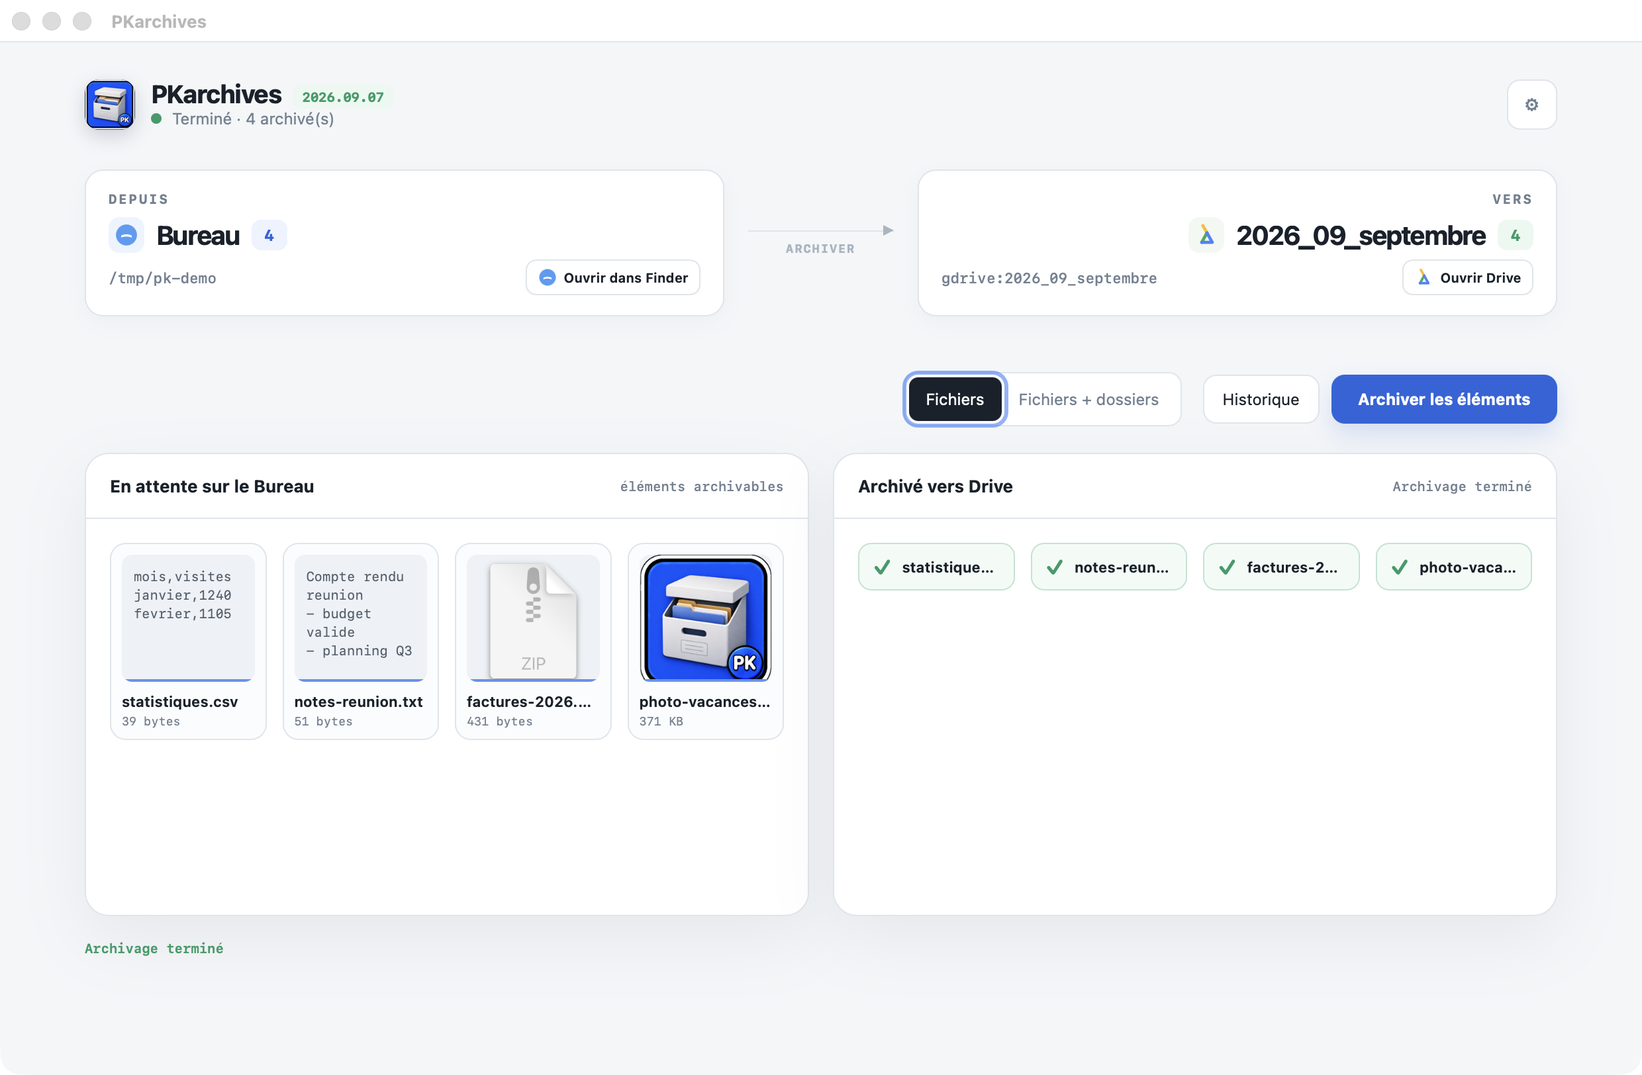
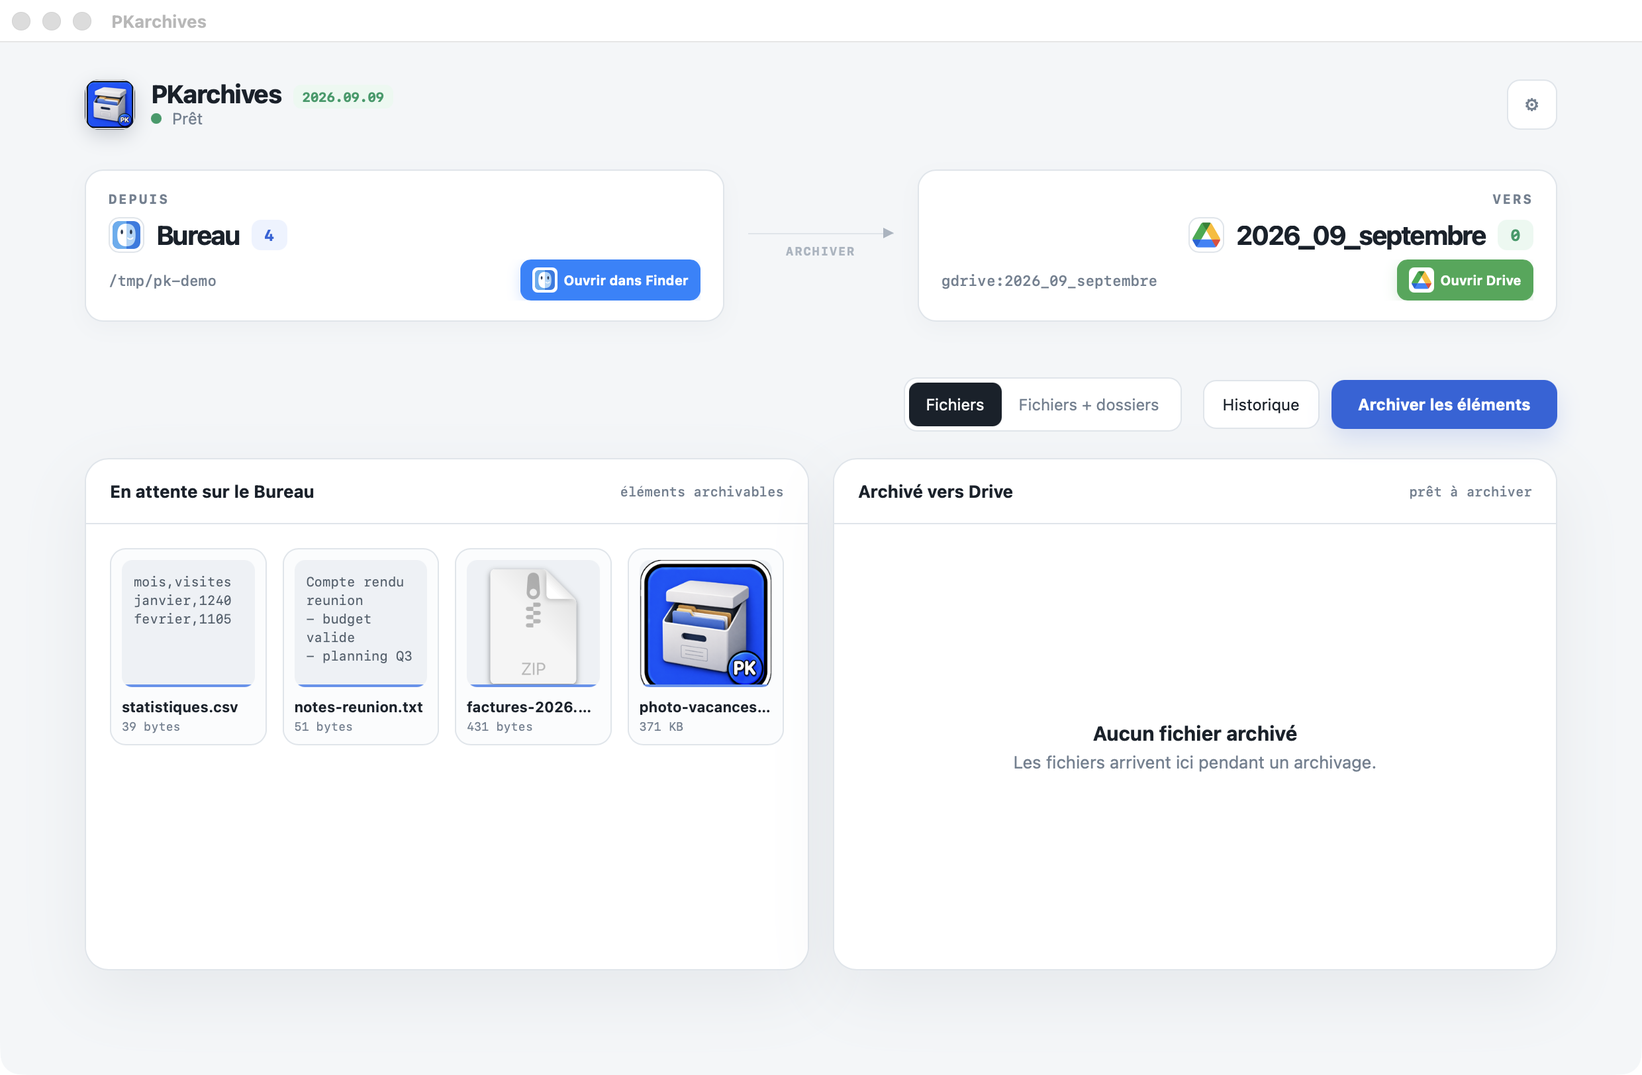
MAJ: vraies icones finder et drive, cta en couleur, reglages reorganises

diff --git a/src/macos/v2/web/index.html b/src/macos/v2/web/index.html
@@ -11,14 +11,14 @@
 .destination{display:flex;align-items:center;gap:8px;padding:9px 13px;border:1px solid var(--line);background:#fff;border-radius:10px;color:var(--muted);font:600 11px ui-monospace,SFMono-Regular,Menlo,monospace}.destination strong{color:var(--ink);font-weight:650}.gear{border:1px solid var(--line);background:#fff;border-radius:10px;width:38px;height:38px;color:var(--muted)}
 .route{display:grid;grid-template-columns:minmax(0,1fr) 110px minmax(0,1fr);align-items:center;gap:18px;margin-bottom:24px}.side{min-width:0}.eyebrow{font:700 10px ui-monospace,SFMono-Regular,Menlo,monospace;text-transform:uppercase;letter-spacing:1.5px;color:var(--muted);margin-bottom:8px}.location{display:flex;align-items:center;gap:9px}.location h2{font-size:22px;letter-spacing:-.7px;margin:0}.path{color:var(--muted);font:500 11px ui-monospace,SFMono-Regular,Menlo,monospace;overflow:hidden;text-overflow:ellipsis;white-space:nowrap;margin-top:5px}.badge{display:inline-flex;align-items:center;justify-content:center;min-width:27px;height:23px;padding:0 8px;border-radius:7px;background:var(--blue-soft);color:var(--blue);font:700 12px ui-monospace,SFMono-Regular,Menlo,monospace}.side.right{text-align:right}.side.right .location{justify-content:flex-end}.side.right .badge{background:#eaf8f1;color:var(--green)}.arrow{text-align:center;color:#a9b4c0}.arrow .line{height:1px;background:var(--line);position:relative}.arrow .line:after{content:"";position:absolute;right:0;top:-4px;border-left:8px solid #a9b4c0;border-top:4px solid transparent;border-bottom:4px solid transparent}
 .workspace{display:grid;grid-template-columns:minmax(0,1fr) minmax(0,1fr);gap:18px}.panel{background:var(--panel);border:1px solid var(--line);border-radius:18px;box-shadow:var(--shadow);min-height:410px;overflow:hidden}.panel-head{display:flex;align-items:center;justify-content:space-between;padding:16px 18px;border-bottom:1px solid var(--line)}.panel-head strong{font-size:13px}.panel-head span{color:var(--muted);font:500 10px ui-monospace,SFMono-Regular,Menlo,monospace}.stack{padding:18px;display:grid;grid-template-columns:repeat(auto-fill,minmax(118px,1fr));gap:12px;align-content:start}.empty{grid-column:1/-1;display:grid;place-items:center;min-height:300px;color:var(--muted);text-align:center;font-size:13px}.empty strong{display:block;color:var(--ink);font-size:15px;margin-bottom:5px}.file{position:relative;min-height:146px;border:1px solid var(--line);border-radius:12px;background:#fbfcfd;padding:8px;transition:transform .25s,opacity .25s,box-shadow .25s}.file:hover{transform:translateY(-3px);box-shadow:0 10px 22px #25364a16}.file.uploading{border-color:#7ea2ed;box-shadow:0 0 0 3px #2864dc18;animation:active .9s infinite alternate}.file.done{border-color:#8bd4b3;background:#f3fbf7}.file.failed{border-color:#e4a0a5;background:#fff7f7}@keyframes active{to{transform:translateY(-3px)}}.thumb{position:relative;height:96px;border-radius:8px;background:#edf1f5;overflow:hidden;display:grid;place-items:center;color:#7b8795;font-size:29px}.thumb img{width:100%;height:100%;object-fit:cover}.thumb .fill{position:absolute;left:0;right:0;bottom:0;height:0;background:linear-gradient(180deg,#4a83ec30,#2864dc70);border-top:2px solid #5b93f0;box-shadow:0 -6px 14px #2864dc33 inset;transition:height .3s ease;pointer-events:none}.thumb.text{display:block;padding:9px;font:10px/1.45 ui-monospace,SFMono-Regular,Menlo,monospace;white-space:pre-wrap;overflow:hidden;color:#52606d}.file-name{font-size:11px;font-weight:650;overflow:hidden;text-overflow:ellipsis;white-space:nowrap;margin-top:8px}.file-meta{display:flex;justify-content:space-between;gap:4px;color:var(--muted);font:9px ui-monospace,SFMono-Regular,Menlo,monospace;margin-top:3px}.check{position:absolute;right:7px;top:7px;width:20px;height:20px;border-radius:50%;background:var(--green);color:#fff;display:none;place-items:center;font-size:12px}.file.done .check{display:grid}.drive-chip{display:flex;align-items:center;gap:8px;padding:8px 10px;border:1px solid #bfe3d2;background:#f3fbf7;border-radius:10px;animation:arrive .35s ease}.drive-chip .ok{color:var(--green);font-weight:700}.drive-chip .n{flex:1;min-width:0;font-size:11px;font-weight:650;overflow:hidden;text-overflow:ellipsis;white-space:nowrap}@keyframes arrive{from{opacity:0;transform:translateX(-14px)}}.flying{position:absolute;width:95px;pointer-events:none;z-index:5;transition:transform .65s cubic-bezier(.2,.75,.25,1),opacity .3s}.flying .file{box-shadow:0 14px 30px #2864dc38;border-color:#7ea2ed}.flying.to-drive{transform:translateX(310px) translateY(-25px) rotate(5deg);opacity:.12}
-.bottom{display:flex;align-items:center;justify-content:space-between;gap:16px;margin-top:22px}.modes{display:flex;border:1px solid var(--line);background:#fff;border-radius:10px;padding:3px}.modes button{border:0;background:transparent;color:var(--muted);border-radius:7px;padding:9px 13px;font-size:12px}.modes button.on{background:var(--ink);color:#fff}.actions{display:flex;align-items:center;gap:9px}.secondary{border:1px solid var(--line);background:#fff;color:var(--ink);border-radius:10px;padding:10px 14px;font-size:12px}.primary{border:0;background:var(--blue);color:#fff;border-radius:10px;padding:11px 20px;font-weight:700;font-size:12px;box-shadow:0 8px 18px #2864dc2b}.primary:disabled{opacity:.45;cursor:default}.cancel{border:1px solid #edc0c4;background:#fff5f6;color:var(--red);border-radius:10px;padding:10px 14px;font-size:12px;display:none}.log{margin-top:18px;color:var(--muted);font:10px ui-monospace,SFMono-Regular,Menlo,monospace;min-height:18px}.log b{color:var(--green);font-weight:600}.drawer{position:fixed;inset:0;background:#18212b55;display:none;align-items:flex-start;justify-content:flex-end;z-index:20}.drawer.open{display:flex}.drawer-card{width:360px;height:100%;background:#fff;padding:26px;box-shadow:-14px 0 40px #18212b25}.drawer-card h2{margin:0 0 5px;font-size:18px}.drawer-card p{margin:0 0 24px;color:var(--muted);font-size:11px}.drawer-card label{display:block;font-size:11px;font-weight:700;margin:15px 0 6px}.drawer-card input{width:100%;border:1px solid var(--line);border-radius:8px;padding:9px;color:var(--ink);font:11px ui-monospace,SFMono-Regular,Menlo,monospace}.drawer-actions{display:flex;gap:8px;margin-top:24px}.close{border:1px solid var(--line);background:#fff;border-radius:8px;padding:9px 12px}.save{border:0;background:var(--blue);color:#fff;border-radius:8px;padding:9px 14px;font-weight:700}
+.bottom{display:flex;align-items:center;justify-content:space-between;gap:16px;margin-top:22px}.modes{display:flex;border:1px solid var(--line);background:#fff;border-radius:10px;padding:3px}.modes button{border:0;background:transparent;color:var(--muted);border-radius:7px;padding:9px 13px;font-size:12px}.modes button.on{background:var(--ink);color:#fff}.actions{display:flex;align-items:center;gap:9px}.secondary{border:1px solid var(--line);background:#fff;color:var(--ink);border-radius:10px;padding:10px 14px;font-size:12px}.primary{border:0;background:var(--blue);color:#fff;border-radius:10px;padding:11px 20px;font-weight:700;font-size:12px;box-shadow:0 8px 18px #2864dc2b}.primary:disabled{opacity:.45;cursor:default}.cancel{border:1px solid #edc0c4;background:#fff5f6;color:var(--red);border-radius:10px;padding:10px 14px;font-size:12px;display:none}.log{margin-top:18px;color:var(--muted);font:10px ui-monospace,SFMono-Regular,Menlo,monospace;min-height:18px}.log b{color:var(--green);font-weight:600}.drawer{position:fixed;inset:0;background:#18212b55;display:none;align-items:stretch;justify-content:flex-end;z-index:20}.drawer.open{display:flex}.drawer-card{width:380px;background:#fff;display:flex;flex-direction:column;box-shadow:-14px 0 40px #18212b25}.dhead{display:flex;align-items:center;justify-content:space-between;padding:18px 20px;border-bottom:1px solid var(--line)}.dhead span{font-size:16px;font-weight:750}.dhead button{border:0;background:transparent;color:var(--muted);font-size:16px;cursor:pointer;padding:2px 6px}.dhead button:hover{color:var(--ink)}.msec{padding:14px 20px;border-bottom:1px solid var(--line)}.mlab{font-size:10px;font-weight:700;text-transform:uppercase;letter-spacing:.08em;color:var(--muted);margin-bottom:8px}.msec input{width:100%;border:1px solid var(--line);border-radius:8px;padding:9px 10px;color:var(--ink);font:11px ui-monospace,SFMono-Regular,Menlo,monospace}.msec input:focus{outline:none;border-color:var(--blue)}.hint{font-size:10px;color:var(--muted);margin-top:5px}.mfoot{margin-top:auto;padding:16px 20px;display:flex;align-items:center;justify-content:space-between;gap:10px;border-top:1px solid var(--line)}.mfoot span{font-size:10px;color:var(--muted)}.save{border:0;background:var(--blue);color:#fff;border-radius:8px;padding:9px 14px;font-weight:700;cursor:pointer}
 @media(max-width:760px){#app{padding:18px}.top{align-items:flex-start;flex-wrap:wrap}.destination{order:3;width:100%;overflow:hidden}.route{grid-template-columns:1fr;gap:12px}.side.right{text-align:left}.side.right .location{justify-content:flex-start}.arrow{transform:rotate(90deg);width:70px;margin:auto}.workspace{grid-template-columns:1fr}.transfer{min-height:90px;order:3}.bottom{align-items:stretch;flex-direction:column}.actions{justify-content:flex-end}.modes button{flex:1}.modes{width:100%}.drawer-card{width:100%}}
- #app{padding-top:88px}.bottom{position:fixed;top:0;left:0;right:0;z-index:10;max-width:1180px;margin:auto;padding:8px 34px 8px 220px;background:var(--bg);border-bottom:1px solid var(--line);justify-content:flex-end}.bottom:before{content:"v1.2026.2";position:absolute;left:max(82px,calc((100vw - 1180px)/2 + 82px));top:13px;padding:4px 7px;border-radius:6px;background:#eaf8f1;color:#1b9b67;font:700 10px ui-monospace,SFMono-Regular,Menlo,monospace}.gear{position:fixed;top:8px;left:max(34px,calc((100vw - 1180px)/2 + 34px));z-index:12;width:38px;height:38px}.drawer-card{position:relative}.close{position:absolute;top:18px;right:18px;padding:7px 10px;color:var(--muted);font-size:11px}.input-row{display:flex;align-items:stretch;gap:0}.input-row input{border-radius:8px 0 0 8px;min-width:0}.choose{border:1px solid var(--line);border-left:0;border-radius:0 8px 8px 0;background:#f7f9fb;color:var(--muted);padding:0 10px;font-size:11px;white-space:nowrap}@media(max-width:760px){#app{padding-top:82px}.bottom{padding:10px 18px;display:flex;flex-wrap:wrap}.bottom:before{left:64px;top:13px}.gear{top:8px;left:18px}.modes{margin-left:auto}.actions{width:100%;margin-top:8px}}
+ #app{padding-top:88px}.bottom{position:fixed;top:0;left:0;right:0;z-index:10;max-width:1180px;margin:auto;padding:8px 34px 8px 220px;background:var(--bg);border-bottom:1px solid var(--line);justify-content:flex-end}.bottom:before{content:"v1.2026.2";position:absolute;left:max(82px,calc((100vw - 1180px)/2 + 82px));top:13px;padding:4px 7px;border-radius:6px;background:#eaf8f1;color:#1b9b67;font:700 10px ui-monospace,SFMono-Regular,Menlo,monospace}.gear{position:fixed;top:8px;left:max(34px,calc((100vw - 1180px)/2 + 34px));z-index:12;width:38px;height:38px}.input-row{display:flex;align-items:stretch;gap:0}.input-row input{border-radius:8px 0 0 8px;min-width:0}.choose{border:1px solid var(--line);border-left:0;border-radius:0 8px 8px 0;background:#f7f9fb;color:var(--muted);padding:0 10px;font-size:11px;white-space:nowrap;cursor:pointer}@media(max-width:760px){#app{padding-top:82px}.bottom{padding:10px 18px;display:flex;flex-wrap:wrap}.bottom:before{left:64px;top:13px}.gear{top:8px;left:18px}.modes{margin-left:auto}.actions{width:100%;margin-top:8px}}
  .history{display:none;margin-top:14px;padding:16px 18px;border:1px solid var(--line);border-radius:14px;background:#fff;box-shadow:var(--shadow)}.history.open{display:block}.history-head{display:flex;justify-content:space-between;font-size:12px;font-weight:700}.history-stats{display:flex;gap:22px;margin:12px 0;color:var(--muted);font-size:11px}.history-stats b{display:block;color:var(--ink);font-size:19px}.bars{height:82px;display:flex;align-items:end;gap:4px;border-bottom:1px solid var(--line)}.bar{flex:1;min-width:4px;background:var(--blue);border-radius:4px 4px 0 0;opacity:.8}.history-empty{color:var(--muted);font-size:11px;margin-top:12px}
 .bottom:before{content:none;display:none}
-.link-btn{display:inline-flex;align-items:center;gap:5px;border:1px solid var(--line);background:#fff;border-radius:8px;padding:5px 8px;font:650 10px -apple-system,BlinkMacSystemFont,"SF Pro Text",sans-serif;color:var(--ink);cursor:pointer;vertical-align:middle;margin-left:8px;box-shadow:0 1px 2px #25364a08;transition:background .2s,transform .2s,border-color .2s}.link-btn:hover{background:#f7f9fb;border-color:#c6d0da;transform:translateY(-1px)}.link-btn:active{transform:translateY(0) scale(.98)}.link-btn svg{width:15px;height:15px;flex:none}.finder-mark{fill:#4e9cf5}.drive-mark{fill:none;stroke-linecap:round;stroke-linejoin:round;stroke-width:3}
+.link-btn{display:inline-flex;align-items:center;gap:5px;border:1px solid var(--line);background:#fff;border-radius:8px;padding:5px 8px;font:650 10px -apple-system,BlinkMacSystemFont,"SF Pro Text",sans-serif;color:var(--ink);cursor:pointer;vertical-align:middle;margin-left:8px;box-shadow:0 1px 2px #25364a08;transition:background .2s,transform .2s,border-color .2s}.link-btn:hover{background:#f7f9fb;border-color:#c6d0da;transform:translateY(-1px)}.link-btn:active{transform:translateY(0) scale(.98)}<.link-btn svg{width:15px;height:15px;flex:none}.bico{width:15px;height:15px;border-radius:4px;background:#fff;padding:2px;box-sizing:content-box;flex:none}.link-btn.finder-btn{background:#0b84ff;border-color:#0b84ff;color:#fff;box-shadow:0 3px 10px #0b84ff38}.link-btn.finder-btn:hover{background:#0a74e0;border-color:#0a74e0;color:#fff}.link-btn.drive-btn{background:#34a853;border-color:#34a853;color:#fff;box-shadow:0 3px 10px #34a85338}.link-btn.drive-btn:hover{background:#2d9448;border-color:#2d9448;color:#fff}
 .bottom{position:static;max-width:none;margin-top:22px;padding:0;background:transparent;border-bottom:0}.bottom:before{position:static;margin-right:auto}.gear{position:static}#app{padding-top:28px}
-.header-context{display:flex;align-items:center;gap:12px}.header-date{display:none}.brand h1 small{display:inline-block;margin-left:5px;padding:3px 7px;border-radius:6px;background:#eaf8f1;color:#1b9b67;font:700 10px ui-monospace,SFMono-Regular,Menlo,monospace;letter-spacing:0;vertical-align:middle}.route-card{padding:15px 17px;border:1px solid var(--line);background:#fff;border-radius:14px;box-shadow:0 5px 16px #25364a09}.route-card .location h2{font-size:20px}.place-icon{width:27px;height:27px;display:grid;place-items:center;border-radius:8px;background:#edf4ff}.place-icon svg{width:19px;height:19px}.drive-icon{background:#f2f8f3}.route-card .path{display:flex;align-items:center;justify-content:space-between;gap:8px}.route-card .path span{min-width:0}.arrow small{display:block;margin-top:7px;font:700 9px ui-monospace,SFMono-Regular,Menlo,monospace;letter-spacing:1px;color:#a9b4c0}.history.open{display:block!important}
+.header-context{display:flex;align-items:center;gap:12px}.header-date{display:none}.brand h1 small{display:inline-block;margin-left:5px;padding:3px 7px;border-radius:6px;background:#eaf8f1;color:#1b9b67;font:700 10px ui-monospace,SFMono-Regular,Menlo,monospace;letter-spacing:0;vertical-align:middle}.route-card{padding:15px 17px;border:1px solid var(--line);background:#fff;border-radius:14px;box-shadow:0 5px 16px #25364a09}.route-card .location h2{font-size:20px}.place-icon{width:27px;height:27px;display:grid;place-items:center;border-radius:8px;background:#fff;border:1px solid var(--line)}.place-icon img{width:21px;height:21px;border-radius:5px}.place-icon svg{width:19px;height:19px}.route-card .path{display:flex;align-items:center;justify-content:space-between;gap:8px}.route-card .path span{min-width:0}.arrow small{display:block;margin-top:7px;font:700 9px ui-monospace,SFMono-Regular,Menlo,monospace;letter-spacing:1px;color:#a9b4c0}.history.open{display:block!important}
 .history.open{position:fixed;inset:auto 0 0;width:100%;height:min(390px,82vh);margin:0;padding:24px max(24px,calc((100vw - 1112px)/2));z-index:30;border:0;border-top:1px solid var(--line);border-radius:18px 18px 0 0;box-shadow:0 -18px 50px #18212b25;background:#fff;overflow:auto}.history-head button{border:0;background:transparent;color:var(--muted);font-size:20px;line-height:1;padding:0 0 4px 12px}.history-head button:hover{color:var(--ink)}.history-year{border:1px solid var(--line);border-radius:8px;padding:7px 10px;background:#fff;color:var(--ink);font-size:11px}
 .history-months{display:flex;gap:4px;color:var(--muted);font:9px ui-monospace,SFMono-Regular,Menlo,monospace}.history-months span{flex:1;text-align:center}
 .bottom{position:fixed;left:50%;bottom:16px;transform:translateX(-50%);z-index:10;width:min(calc(100% - 68px),1112px);padding:10px 12px;margin:0;background:#fffffff2;border:1px solid var(--line);border-radius:14px;box-shadow:0 14px 35px #25364a1c;backdrop-filter:blur(14px)}#app{padding-bottom:100px}
@@ -31,12 +31,12 @@
 <body>
 <main id="app">
   <header class="top"><div class="brand"><img class="logo" src="icon.png" alt="" /><div><h1>PKarchives <small id="appVersion">__VERSION__</small></h1><div class="state" id="state"><i class="led"></i><span id="status">Prêt</span></div></div></div><div class="header-context"><button class="gear" id="gear" aria-label="Réglages">⚙</button></div></header>
-  <section class="route"><div class="side route-card"><div class="eyebrow">Depuis</div><div class="location"><span class="place-icon finder-icon"><svg viewBox="0 0 24 24" aria-hidden="true"><circle fill="#4e9cf5" cx="12" cy="12" r="10"/><path fill="#fff" d="M7 12.5c1.7-.8 3.3-1.2 5-1.2s3.3.4 5 1.2v2c-1.6-.7-3.3-1-5-1s-3.4.3-5 1v-2Z"/></svg></span><h2>Bureau</h2><span class="badge" id="sourceCount">0</span></div><div class="path"><span id="sourcePath">~/Desktop</span><button class="link-btn" id="openFinder" title="Ouvrir dans Finder"><svg viewBox="0 0 24 24" aria-hidden="true"><circle fill="#4e9cf5" cx="12" cy="12" r="10"/><path fill="#fff" d="M7 12.5c1.7-.8 3.3-1.2 5-1.2s3.3.4 5 1.2v2c-1.6-.7-3.3-1-5-1s-3.4.3-5 1v-2Z"/></svg>Ouvrir dans Finder</button></div></div><div class="arrow"><div class="line"></div><small>ARCHIVER</small></div><div class="side right route-card"><div class="eyebrow">Vers</div><div class="location"><span class="place-icon drive-icon"><svg viewBox="0 0 24 24" aria-hidden="true"><path class="drive-mark" stroke="#fbbc04" d="m8 3 4 7"/><path class="drive-mark" stroke="#34a853" d="m12 10-5 9"/><path class="drive-mark" stroke="#4285f4" d="M7 19h10l-5-9"/></svg></span><h2 id="destinationShort">Dossier cloud</h2><span class="badge" id="archiveCount">0</span></div><div class="path"><span id="destination">Google Drive</span><button class="link-btn" id="openDriveBtn" title="Ouvrir Google Drive"><svg viewBox="0 0 24 24" aria-hidden="true"><path class="drive-mark" stroke="#fbbc04" d="m8 3 4 7"/><path class="drive-mark" stroke="#34a853" d="m12 10-5 9"/><path class="drive-mark" stroke="#4285f4" d="M7 19h10l-5-9"/></svg>Ouvrir Drive</button></div></div></section>
+  <section class="route"><div class="side route-card"><div class="eyebrow">Depuis</div><div class="location"><span class="place-icon"><img src="logo-finder.svg" alt=""></span><h2>Bureau</h2><span class="badge" id="sourceCount">0</span></div><div class="path"><span id="sourcePath">~/Desktop</span><button class="link-btn finder-btn" id="openFinder" title="Ouvrir dans Finder"><img class="bico" src="logo-finder.svg" alt="">Ouvrir dans Finder</button></div></div><div class="arrow"><div class="line"></div><small>ARCHIVER</small></div><div class="side right route-card"><div class="eyebrow">Vers</div><div class="location"><span class="place-icon"><img src="logo-drive.svg" alt=""></span><h2 id="destinationShort">Dossier cloud</h2><span class="badge" id="archiveCount">0</span></div><div class="path"><span id="destination">Google Drive</span><button class="link-btn drive-btn" id="openDriveBtn" title="Ouvrir Google Drive"><img class="bico" src="logo-drive.svg" alt="">Ouvrir Drive</button></div></div></section>
   <section class="workspace"><article class="panel"><div class="panel-head"><strong>En attente sur le Bureau</strong><span id="sourceHint">éléments archivables</span></div><div class="stack" id="sourceStack"><div class="empty"><div><strong>Scan du Bureau…</strong><span>Les éléments ignorés ne sont pas comptés.</span></div></div></div></article><article class="panel transfer"><div class="panel-head"><strong>Archivé vers Drive</strong><span id="transferLabel">prêt à archiver</span></div><div class="stack" id="driveStack"><div class="empty"><div><strong>Aucun fichier archivé</strong><span>Les fichiers arrivent ici pendant un archivage.</span></div></div></div></article></section>
   <footer class="bottom"><div class="modes"><button id="mFiles" class="on">Fichiers</button><button id="mAll">Fichiers + dossiers</button></div><div class="actions"><button class="secondary" id="logButton">Historique</button><button class="cancel" id="cancel">Annuler</button><button class="primary" id="archive">Archiver les éléments</button></div></footer>
    <div class="log" id="log"></div><section class="history" id="history"><div class="history-head"><span>Historique annuel</span><span><select class="history-year" id="historyYear" aria-label="Année de l’historique"></select><button id="closeHistory" aria-label="Fermer l’historique">×</button></span></div><div class="history-stats"><div><b id="historyTotal">0</b>fichiers archivés</div><div><b id="historyBytes">0</b>libérés</div></div><div class="bars" id="historyBars"></div><div class="history-months" id="historyMonths"></div><div class="history-empty" id="historyEmpty">Aucun archivage cette année.</div></section>
 </main>
-<aside class="drawer" id="drawer"><div class="drawer-card"><h2>Réglages</h2><p>Configuration partagée avec la CLI.</p><button class="close" id="close">Fermer</button><label for="folder">ID du dossier Google Drive</label><input id="folder" type="text"><label for="desktop">Chemin du Bureau</label><div class="input-row"><input id="desktop" type="text"><button class="choose" id="chooseDesktop">Choisir…</button></div><label for="remote">Remote rclone</label><input id="remote" type="text"><div class="drawer-actions"><button class="save" id="save">Enregistrer</button></div></div></aside>
+<aside class="drawer" id="drawer"><div class="drawer-card"><div class="dhead"><span>Réglages</span><button id="close" aria-label="Fermer">✕</button></div><div class="msec"><div class="mlab">Dossier Google Drive</div><input id="folder" type="text" placeholder="ID du dossier de destination"><div class="hint">L'ID du dossier Drive où sont créés les dossiers mensuels.</div></div><div class="msec"><div class="mlab">Dossier à archiver</div><div class="input-row"><input id="desktop" type="text"><button class="choose" id="chooseDesktop">Choisir…</button></div></div><div class="msec"><div class="mlab">Remote rclone</div><input id="remote" type="text" placeholder="gdrive"></div><div class="mfoot"><span>Configuration partagée avec la CLI · <b>~/.config/pkarchives</b></span><button class="save" id="save">Enregistrer</button></div></div></aside>
 <script src="app.js"></script>
 </body>
 </html>
